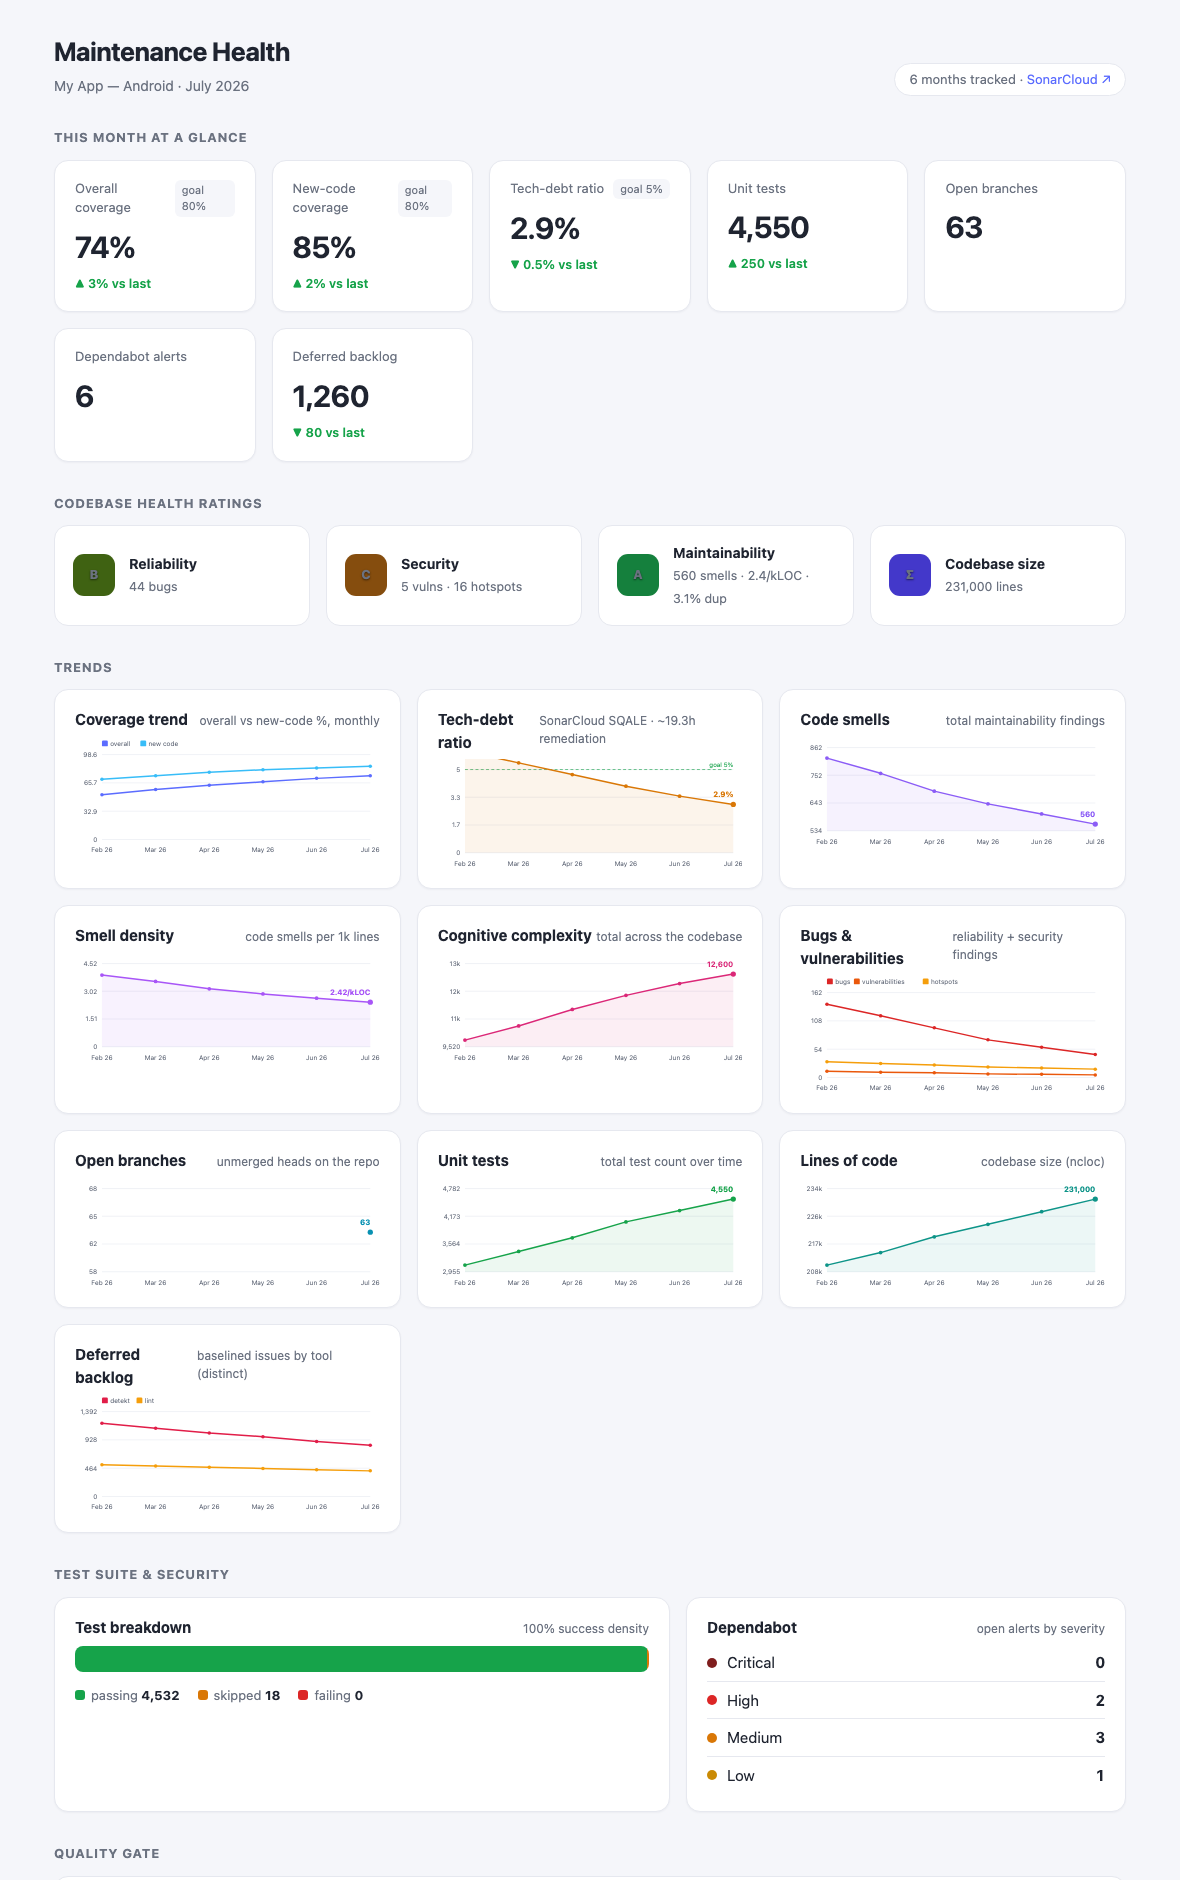
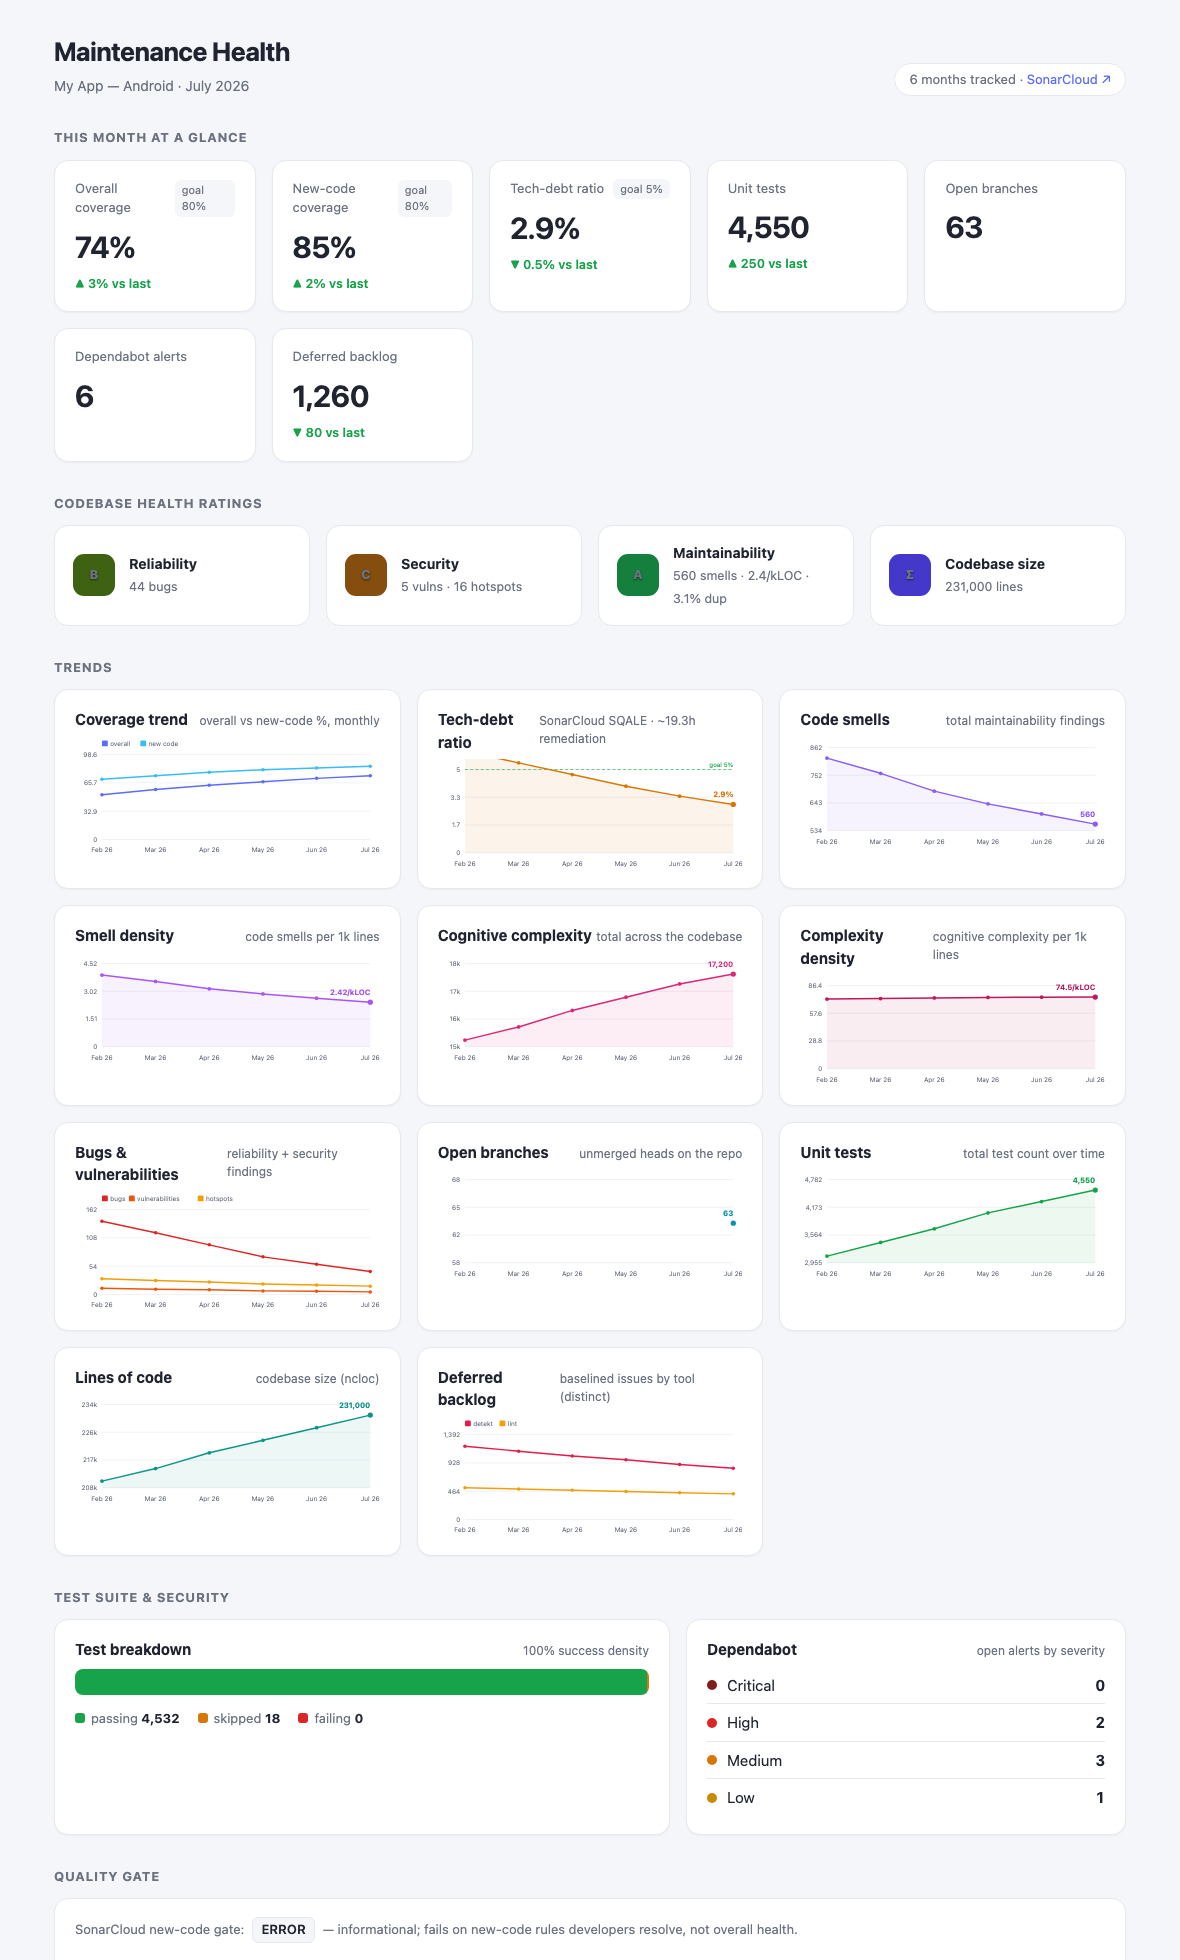
Add complexity density chart (cognitive complexity per 1k LOC)
Normalizes cognitive complexity for codebase growth, mirroring smell density.

diff --git a/static/app.js b/static/app.js
@@ -14,6 +14,7 @@ const CHARTS = [
   {key:"code_smells",      label:"Code smells",          sub:"maintainability findings",color:"#8b5cf6",  unit:"",  acc:s=>g(s,"sonar","code_smells")},
   {key:"smell_density",    label:"Smell density",        sub:"code smells per 1k lines",color:"#a855f7",  unit:"/kLOC", yMin:0, dec:2, acc:s=>{const sm=g(s,"sonar","code_smells"),nc=g(s,"sonar","ncloc");return (sm!=null&&nc)?+(sm/nc*1000).toFixed(2):null;}},
   {key:"cognitive_complexity",label:"Cognitive complexity",sub:"total across the codebase",color:"#db2777",unit:"", acc:s=>g(s,"sonar","cognitive_complexity")},
+  {key:"complexity_density",label:"Complexity density",sub:"cognitive complexity per 1k lines",color:"#be185d",unit:"/kLOC",yMin:0,dec:1,acc:s=>{const c=g(s,"sonar","cognitive_complexity"),nc=g(s,"sonar","ncloc");return (c!=null&&nc)?+(c/nc*1000).toFixed(1):null;}},
   {key:"bugs",             label:"Bugs & vulnerabilities",sub:"reliability + security",  unit:"", yMin:0,
     series:[{label:"bugs",color:BAD,acc:s=>g(s,"sonar","bugs")},
             {label:"vulnerabilities",color:"#ea580c",acc:s=>g(s,"sonar","vulnerabilities")},

diff --git a/report.py b/report.py
@@ -308,6 +308,15 @@ def build_report(snapshots: list[dict], cfg: dict, generated_at: str) -> str:
         sm, nc = so.get("code_smells"), so.get("ncloc")
         return sm / nc * 1000 if (sm is not None and nc) else None
 
+    def per_kloc_series(key, ndigits=1):
+        # any sonar count normalized per 1k lines — reads through codebase growth
+        out = []
+        for snap in snapshots:
+            so = snap.get("sonar") or {}
+            v, nc = so.get(key), so.get("ncloc")
+            out.append((snap["month"], round(v / nc * 1000, ndigits) if (v is not None and nc) else None))
+        return out
+
     def dep_total(gd):
         return (gd or {}).get("total") if gd else None
 
@@ -373,6 +382,8 @@ def build_report(snapshots: list[dict], cfg: dict, generated_at: str) -> str:
             density_series(), y_min=0, color="#a855f7", unit="/kLOC", decimals=2)),
         chart_card("Cognitive complexity", "total across the codebase", line_chart(
             sonar_series("cognitive_complexity"), color="#db2777", decimals=0)),
+        chart_card("Complexity density", "cognitive complexity per 1k lines", line_chart(
+            per_kloc_series("cognitive_complexity"), y_min=0, color="#be185d", unit="/kLOC", decimals=1)),
         chart_card("Bugs & vulnerabilities", "reliability + security findings", multi_line_chart([
             {"label": "bugs", "color": BAD, "points": sonar_series("bugs")},
             {"label": "vulnerabilities", "color": "#ea580c", "points": sonar_series("vulnerabilities")},
